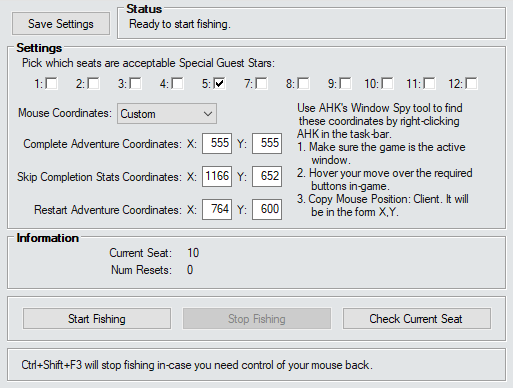
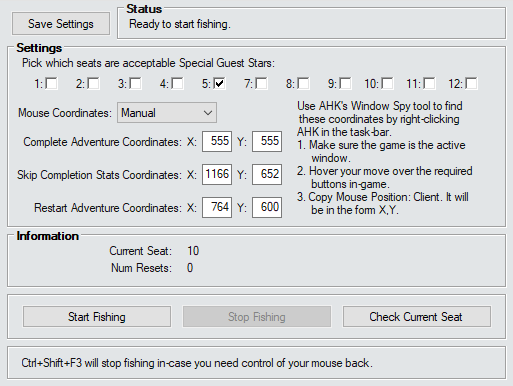
Update DM Fishing Minigame - v0.1.2
- Changed it so that `TextSearch` (previously `FindText`) mode is now the default mode.
- `Default` mode has been renamed to `Formulaic`.

diff --git a/IC_Addons/IC_DMFishingMinigame_Extra/README.md b/IC_Addons/IC_DMFishingMinigame_Extra/README.md
@@ -10,9 +10,9 @@ This is an addon that will retry an adventure until DM picks the Guest Star seat
 
 ___
 
-| Default Layout | Custom Layout |
+| Formulaic Layout | Custom Layout |
 |---|---|
-| ![DM Fishing Minigame Addon Preview Image: Default Layout](images/DMFishingMinigameAddonPreviewDefault.png) | ![DM Fishing Minigame Addon Preview Image: Custom Layout](images/DMFishingMinigameAddonPreviewCustom.png) |
+| ![DM Fishing Minigame Addon Preview Image: TextSearch Layout](images/DMFishingMinigameAddonPreviewTextSearch.png) | ![DM Fishing Minigame Addon Preview Image: Formulaic Layout](images/DMFishingMinigameAddonPreviewFormulaic.png) | ![DM Fishing Minigame Addon Preview Image: Custom Layout](images/DMFishingMinigameAddonPreviewCustom.png) |
 
 ___
 
@@ -38,9 +38,16 @@ These are the seats that you consider acceptable for DM to pick. If - during fis
 
 ### Mouse Coordinates
 
-This lets you change the coordinates for the buttons the script has to click. `Default` mode should work for most people - but it could fail on certain resolutions. If `Default` mode can't click certain buttons - swap to `Custom` mode.
+This lets you change the coordinates for the buttons the script has to click.
 
-#### Default
+#### TextSearch
+
+This is an image text search method (basically OCR) added in v0.0.7. It should be more reliable than Formulaic - but there is always the potential that your game looks just slightly wrong and the images simply can't be found. It is slightly faster than the other two methods though.
+
+> [!TIP]
+> *This is the recommended method - if it works.*
+
+#### Formulaic
 
 This uses a formulaic method for finding the required buttons. It should be accurate but I simply can't guarantee that.
 
@@ -77,13 +84,6 @@ Use Autohotkey's `Window Spy` tool to find the coordinates for each of the requi
 
 > [!CAUTION]
 > *Idle Champions **must** be selected when using `Window Spy` and you **must** use `Client` mouse position. If you do not do this - the resulting coordinates will be wrong.*
-
-#### FindText
-
-This is an image search method added in v0.0.7. It should be more reliable than Default - but there is always the potential that your game looks just slightly wrong and the images simply can't be found.
-
-> [!TIP]
-> *FindText mode is likely the fastest method - so at least give it a try.*
 
 ___
 
